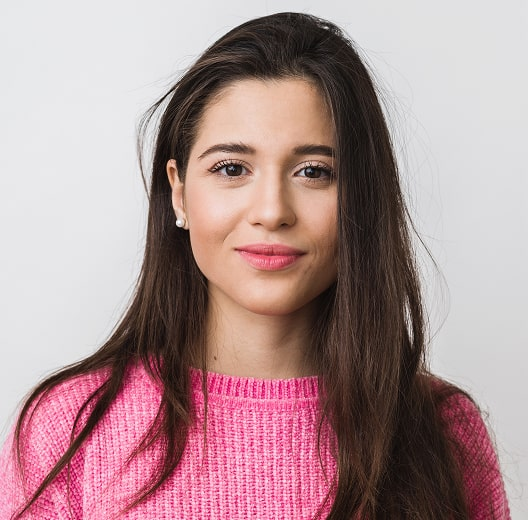
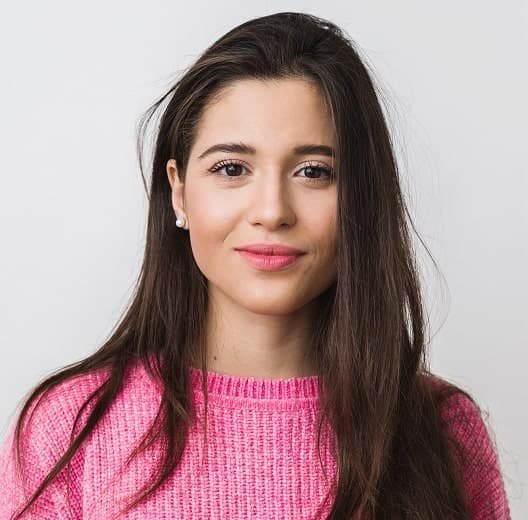
Optimized image using Squoosh

diff --git a/index.html b/index.html
@@ -71,7 +71,7 @@
         <ul>
           <li>
             <img
-              src="./images/img-1.jpg"
+              src="/images/img-1.jpg"
               alt="Mark Guerrero"
               width="264"
               height="260"
